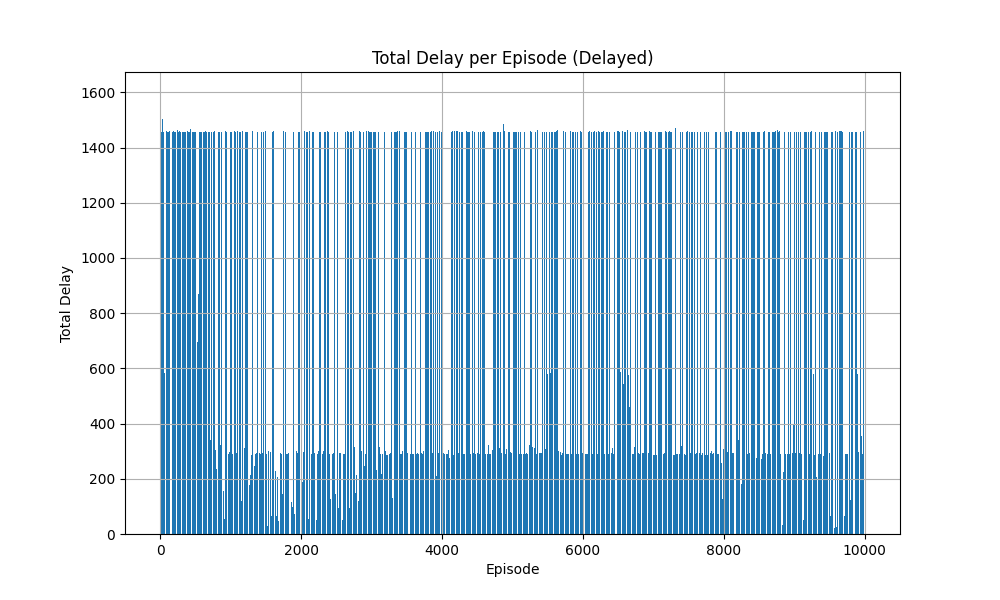
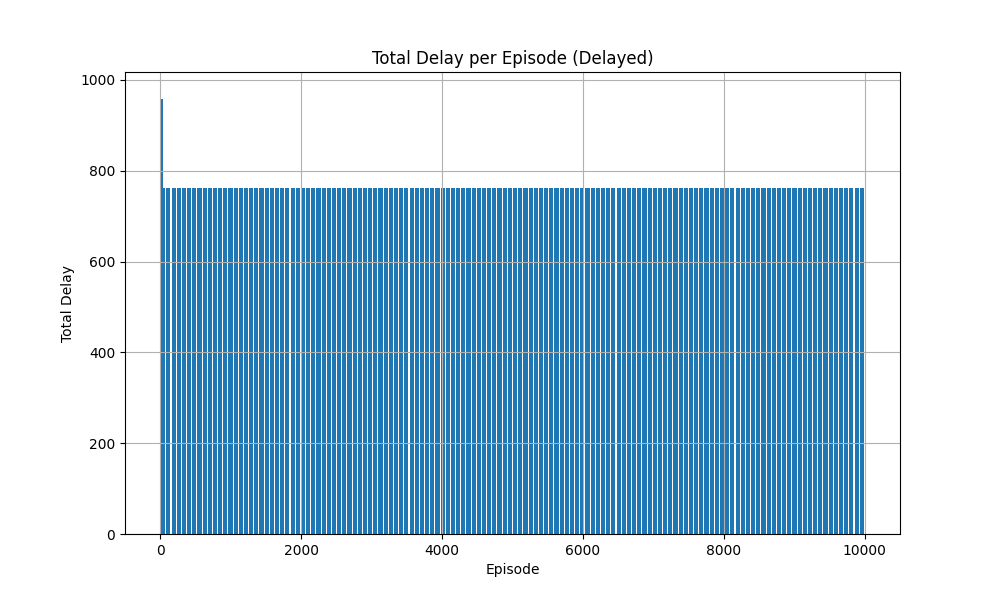
Final jetzt wirklich

diff --git a/VehicleRescheduling.py b/VehicleRescheduling.py
@@ -9,7 +9,7 @@ random.seed(48)
 np.random.seed(48)
 
 class Train:
-    def __init__(self, start, goal, name, departure_time, arrival_time):
+    def __init__(self, start, goal, name, precessor, departure_time, arrival_time):
         self.name = name
         self.start = start
         self.position = start
@@ -21,6 +21,7 @@ class Train:
         self.reward = 0
         self.crashed = False
         self.done = False
+        self.precessor = precessor
 
 class TrainEnvironment:
     def __init__(self, n_states, trains):
@@ -28,8 +29,8 @@ class TrainEnvironment:
         self.trains = trains
         self.stations = {'A': 0, 'B': 4, 'C': 8}  # Define the train stations
         self.railway_switch = {}
-        self.total_states = n_states #* len(trains)
-        self.window_size = 512
+        self.total_states = n_states
+        self.window_size = 1024
         self.window = None
         self.clock = None
         self.reset()
@@ -60,7 +61,7 @@ class TrainEnvironment:
         if positions.count(train.position) > 1:
             if train.position not in self.stations.values() and train.position not in self.railway_switch.values():
                 for v in self.trains:
-                    if v.position == train.position and v.position not in self.stations.values() and v.position not in self.railway_switch.values():
+                    if v.position == train.position and (v.position not in self.stations.values() and train.position not in self.railway_switch.values()):
                         v.reward = -100  # Collision penalty
                         v.done = True
                         v.crashed = True
@@ -201,7 +202,7 @@ class QLearningAgent:
         target = reward + self.gamma * np.max(self.q_table[next_state, :])
         self.q_table[state, action] = self.q_table[state, action] + self.lr * (target - predict)
 
-def train_agents(env, agents, n_episodes, max_steps, viz_on):
+def train_agents(env, agents, n_episodes=10000, max_steps=300, viz_on = 0):
     rewards_per_episode = []
     deltas_arrival = []
     for episode in range(n_episodes):
@@ -215,7 +216,7 @@ def train_agents(env, agents, n_episodes, max_steps, viz_on):
         while not all(done) and step < max_steps:
             curr_action = []
             for i, agent in enumerate(agents):
-                if not done[i] and step >= env.trains[i].departure_time:
+                if not env.trains[i].done and step >= env.trains[i].departure_time and (env.trains[i].precessor == None or (env.trains[env.trains[i].precessor].done == True and env.trains[env.trains[i].precessor].crashed != True and (curr_action[env.trains[i].precessor][-1] == None or env.trains[i].precessor == None))):
                     action = agent.choose_action(state[i])
                     curr_action.append((i, action))
                     next_state, reward, delta_arrival_time = env.step(i, action, step)
@@ -241,6 +242,10 @@ def train_agents(env, agents, n_episodes, max_steps, viz_on):
             if i.actual_arrival_time == None:
                 i.actual_arrival_time = max_steps
                 delay_per_episode += i.actual_arrival_time - i.arrival_time
+        
+        # decay of epsilon
+        for j in agents:
+            j.epsilon = j.epsilon * j.epsilon_decay
            
         rewards_per_episode.append(total_reward)
         deltas_arrival.append(delay_per_episode)
@@ -249,7 +254,7 @@ def train_agents(env, agents, n_episodes, max_steps, viz_on):
     pygame.quit()
     return rewards_per_episode, deltas_arrival
 
-def evaluate_agent(env, agent, n_eval_episodes, max_steps, q_table, viz_on):
+def evaluate_agent(env, agent, n_eval_episodes=1000, max_steps=200, q_table = None, viz_on = 1):
     rewards_per_episode = []
     deltas_arrival = []
     for episode in range(n_eval_episodes):
@@ -263,7 +268,7 @@ def evaluate_agent(env, agent, n_eval_episodes, max_steps, q_table, viz_on):
         while not all(done) and step < max_steps:
             curr_action = []
             for i, agent in enumerate(agents):
-                if not done[i] and step >= env.trains[i].departure_time:
+                if not env.trains[i].done and step >= env.trains[i].departure_time and (env.trains[i].precessor == None or (env.trains[env.trains[i].precessor].done == True and env.trains[env.trains[i].precessor].crashed != True and (curr_action[env.trains[i].precessor][-1] == None or env.trains[i].precessor == None))):
                     action = agent.choose_action_evaluation(state[i])
                     curr_action.append((i, action))
                     next_state, reward, delta_arrival_time = env.step(i, action, step)
@@ -279,14 +284,17 @@ def evaluate_agent(env, agent, n_eval_episodes, max_steps, q_table, viz_on):
             total_reward = np.sum([i.reward for i in env.trains])
             if viz_on == 1:
                 env.render_frame(env, step, episode, total_reward, curr_action)    
-            if True in [m.crashed for m in env.trains]:  # Break out of the outer loop if the episode should end
-                env.reset()
+            if crashed:  # Break out of the outer loop if the episode should end
                 break
          # Penalty if agent did not arrive in Goal state
         for i in env.trains:
             if i.actual_arrival_time == None:
                 i.actual_arrival_time = max_steps
                 delay_per_episode += i.actual_arrival_time - i.arrival_time
+
+        # decay of epsilon
+        for j in agents:
+            j.epsilon = j.epsilon * j.epsilon_decay
 
         rewards_per_episode.append(total_reward)
         deltas_arrival.append(delay_per_episode)
@@ -308,11 +316,11 @@ def print_q_table(q_table, agent_id):
 
 def grid_search(env, agents):
     Results = pd.DataFrame(columns = ['training_episodes', 'max_epsilon', 'decay_rate', 'learning_rate', 'gamma', 'mean_reward', 'mean_lateness'])
-    n_training_episodes = [15000]
-    epsilon = [0.2, 0.4, 0.6]
+    n_training_episodes = [10000]
+    epsilon = [0.5, 0.8]
     decay_rate = [0.95, 0.995]
-    max_steps = 300
-    learning_rate = [0.9, 0.6, 0.3]
+    max_steps = 200
+    learning_rate = [0.2, 0.6, 0.9]
     gamma = [0.8, 0.9]
 
     for a in n_training_episodes:
@@ -325,62 +333,61 @@ def grid_search(env, agents):
                             f.gamma = e
                             f.epsilon = b
                             f.epsilon_decay = c
-                        rewards_per_episode, deltas_arrival = train_agents(env, agents, n_episodes = a, max_steps = max_steps, viz_on = 0)
+                        rewards_per_episode, deltas_arrival = train_agents(env, agents, n_episodes = a)
                         dict_frame = {'training_episodes': [a], 'max_epsilon': [b], 'decay_rate': [c], 'learning_rate': [d], 'gamma': [e], 'mean_reward': [np.mean(rewards_per_episode)], 'mean_lateness': [np.mean(deltas_arrival)]}
                         Results = pd.concat([Results, pd.DataFrame.from_dict(dict_frame)], ignore_index = True)
                         Results = Results.sort_values(by='mean_reward', ascending=False)
                         print(Results.iloc[0:10,:])
     return Results
                         
-
-# Initialize 'Planned-Schedule' and agents
+# Initialize environment and agents
 trains = [
-    Train(0, 4, 0, departure_time=3, arrival_time=7),
-    Train(4, 0, 1, departure_time=8, arrival_time=12),
-    Train(0, 8, 2, departure_time=0, arrival_time=8),
-    Train(8, 4, 3, departure_time=0, arrival_time=4),
-    Train(4, 8, 4, departure_time=7, arrival_time=11) 
+    Train(0, 4, 0, None, departure_time=3, arrival_time=7),
+    Train(4, 0, 1, 0, departure_time=8, arrival_time=12),
+    Train(0, 8, 2, None, departure_time=0, arrival_time=8),
+    Train(8, 4, 3, None, departure_time=0, arrival_time=4),
+    Train(4, 8, 4, 3, departure_time=7, arrival_time=11)
 ]
 env = TrainEnvironment(9, trains)
-agents = [QLearningAgent(env.total_states, 3, learning_rate=0.3, discount_factor=0.8, exploration_rate=0.2, exploration_decay=0.950) for _ in env.trains]
+agents = [QLearningAgent(env.total_states, 3, learning_rate=0.2, discount_factor=0.8, exploration_rate=0.8, exploration_decay=0.995) for _ in env.trains]
 
 # Train the agents
-rewards, delay_per_episode = train_agents(env, agents, n_episodes=15000, max_steps=300, viz_on = 0)
+rewards, delay_per_episode = train_agents(env, agents)
 
-# Performance Evaluation - based on learned q-values
-mean_reward, std_reward, delay_per_episode_eval = evaluate_agent(env, agents, n_eval_episodes=1000, max_steps=300, q_table = rewards, viz_on = 0)
+# Performance Evaluation - based on learned q-vmax_alues
+mean_reward, std_reward, delay_per_episode_eval = evaluate_agent(env, agents, q_table = rewards)
 
-# Initialize 'Delayed-Schedule' and agents
+# Initalizing delayed environment
 trains_delayed = [
-    Train(0, 4, 0, departure_time=3, arrival_time=7),
-    Train(4, 0, 1, departure_time=8, arrival_time=12),
-    Train(0, 8, 2, departure_time=5, arrival_time=8),
-    Train(8, 4, 3, departure_time=0, arrival_time=4),
-    Train(4, 8, 4, departure_time=7, arrival_time=11)
+    Train(0, 4, 0, None, departure_time=3, arrival_time=7),
+    Train(4, 0, 1, 0, departure_time=8, arrival_time=12),
+    Train(0, 8, 2, None, departure_time=5, arrival_time=8),
+    Train(8, 4, 3, None, departure_time=0, arrival_time=4),
+    Train(4, 8, 4, 3, departure_time=7, arrival_time=11)
 ]
 env_delayed = TrainEnvironment(9, trains_delayed)
-agents_delayed = [QLearningAgent(env_delayed.total_states, 3, learning_rate=0.3, discount_factor=0.8, exploration_rate=0.2, exploration_decay=0.950) for _ in env_delayed.trains]
+agents_delayed = [QLearningAgent(env_delayed.total_states, 3, learning_rate=0.2, discount_factor=0.8, exploration_rate=0.5, exploration_decay=0.95) for _ in env_delayed.trains]
 
-# Train the agents - Delayed Schedule
-rewards_delayed, delay_per_episode_delayed = train_agents(env_delayed, agents_delayed, n_episodes=15000, max_steps=300, viz_on = 0)
+# Train the agents
+rewards_delayed, delay_per_episode_delayed = train_agents(env_delayed, agents_delayed)
 
 # Performance Evaluation of delayed schedule - Same Q-Values
-mean_reward_delayed, std_reward_delayed, delay_per_episode_eval_delayed = evaluate_agent(env_delayed, agents_delayed, n_eval_episodes=1000, max_steps=300, q_table = rewards_delayed, viz_on = 0)
+mean_reward_delayed, std_reward_delayed, delay_per_episode_eval_delayed = evaluate_agent(env_delayed, agents_delayed, q_table = rewards_delayed)
 
 
-# Output Performance Evaluation - Standard Schedule and Delayed Schedule
+# Output Performance Evaluation - Standard Schedule and Deleayed Schedule
 print(f"Mean_reward={mean_reward:.2f} +/- {std_reward:.2f}")
 print(f"Mean_reward Delayed ={mean_reward_delayed:.2f} +/- {std_reward_delayed:.2f}")
 
 # Hyperparameter Tuning for Optimal and delayed Model
-#hyperparameter_tuning = grid_search(env,agents)
-#hyperparameter_tuning_delayed = grid_search(env_delayed,agents_delayed)
+hyperparameter_tuning = grid_search(env,agents)
+hyperparameter_tuning_delayed = grid_search(env_delayed,agents_delayed)
 
 # Output Q-Table
 for i, agent in enumerate(agents):
     print_q_table(agent.q_table, i)
     
-# Output Q-Table 'Delayed-Schedule'
+# Output Q-Table
 for i, agent in enumerate(agents_delayed):
     print_q_table(agent.q_table, i)
 
@@ -395,19 +402,19 @@ plt.show()
 
 # Visualize the training progress
 plt.figure(figsize=(10, 6))
-plt.bar(range(len(delay_per_episode)),delay_per_episode)
+plt.bar(range(len(rewards_delayed)),rewards_delayed)
 plt.xlabel('Episode')
-plt.ylabel('Total Delay')
-plt.title('Total Delay per Episode')
+plt.ylabel('Total Reward')
+plt.title('Total Reward per Episode (Delayed)')
 plt.grid(True)
 plt.show()
 
 # Visualize the training progress
 plt.figure(figsize=(10, 6))
-plt.bar(range(len(rewards_delayed)),rewards_delayed)
+plt.bar(range(len(delay_per_episode)),delay_per_episode)
 plt.xlabel('Episode')
-plt.ylabel('Total Reward')
-plt.title('Total Reward per Episode (Delayed)')
+plt.ylabel('Total Delay')
+plt.title('Total Delay per Episode')
 plt.grid(True)
 plt.show()
 
@@ -419,3 +426,19 @@ plt.ylabel('Total Delay')
 plt.title('Total Delay per Episode (Delayed)')
 plt.grid(True)
 plt.show()
+
+# Visualize the training progress
+plt.figure(figsize=(10, 6))
+plt.plot(delay_per_episode_eval)
+plt.xlabel('Episode')
+plt.ylabel('Total Delay')
+plt.title('Total Delay per Episode for evaluate Agent')
+plt.grid(True)
+
+# Visualize the training progress
+plt.figure(figsize=(10, 6))
+plt.plot(delay_per_episode_eval_delayed)
+plt.xlabel('Episode')
+plt.ylabel('Total Delay')
+plt.title('Total Delay per Episode for evaluate Agent (Delayed)')
+plt.grid(True)
